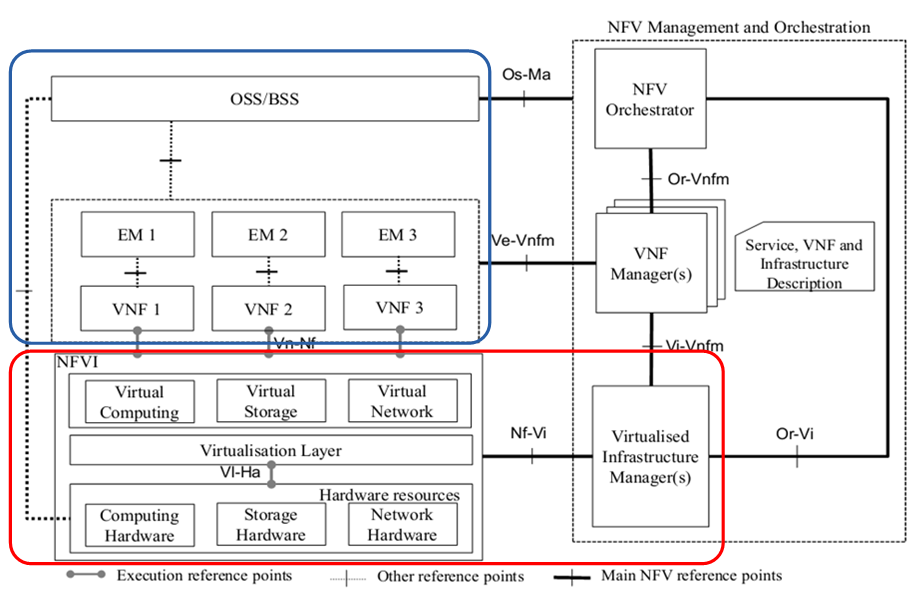
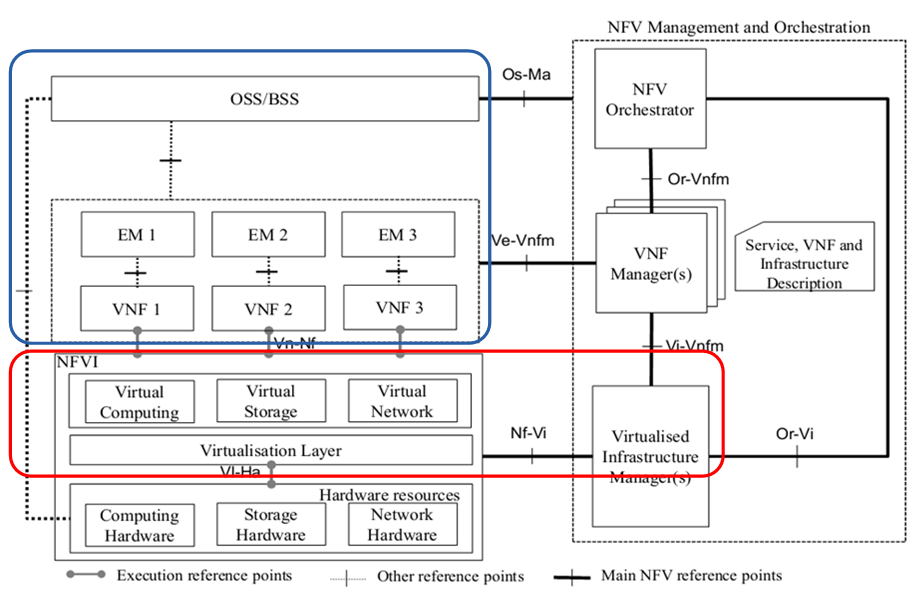
ESCALATOR-28: Revise the Section of Reference Architecture
JIRA: ESCALATOR-28

Changed region(s): [[0.0, 0.7414, 0.7887, 0.9489]]

diff --git a/docs/05-Reference_Architecture.rst b/docs/05-Reference_Architecture.rst
@@ -5,7 +5,7 @@ This section describes the reference architecture, the function blocks,
 and the function entities of Escalator for the reader to well understand how
 the basic functions to be organized.
 
-1. Upgrade Scope
+Upgrade Scope
 ~~~~~~~~~~~~~~~~
 Upgrade objects described in this document are software programs covered by
 red box in the picture below which includes: VIM and NFVI.
@@ -25,34 +25,37 @@ The software stack on each node is generally as shown in the table below.
    :name: figure2
    :width: 100%
 
-Because the control node upgrade will not affect the business in the blue box,
-this scheme focuses on upgrading of compute nodes.
+Because the control node upgrade will not affect the VNFs service in the blue
+box, this scheme focuses on upgrading of compute nodes.
 
-2. Precondition of Upgrade
+Precondition of Upgrade
 ~~~~~~~~~~~~~~~~~~~~~~~~~~
-2.1 The environmental requirements
-1.  System is running normally. If there are any faults before the upgrade, it
-is difficult to distinguish between upgrade introduced and the environment
+1 The environmental requirements
+^^^^^^^^^^^^^^^^^^^^^^^^^^^^^^^^
+- 1.  System is running normally. If there are any faults before the upgrade,
+it is difficult to distinguish between upgrade introduced and the environment
 itself.
-2.  The environment should have the redundant resources. Because the upgrade
+- 2.  The environment should have the redundant resources. Because the upgrade
 process is based on the business migration, in the absence of resource
 redundancy,it is impossible to realize the business migration, as well as to
 achieve a smooth upgrade.
 
 Resource redundancy in two levels:
-1)  NFVI level: This level is mainly the compute nodes resource redundancy.
+- 1  NFVI level: This level is mainly the compute nodes resource redundancy.
 During the upgrade, the virtual machine on business can be migrated to another
 free compute node.
-2)  VNF level: This level depends on backup mechanism in VNF, such as:
+- 2  VNF level: This level depends on HA mechanism in VNF, such as:
 active-standby, load balance. In this case, as long as business of the target
 node on VMs is migrated to other free nodes, the migration of VM might not be
 necessary.
 
 The way of redundancy to be used is subject to the specific environment.
-Generally speaking, the impact of using NFVI redundancy on the VMs is larger
-than the rearrangement of the business on VNF level.
+Generally speaking, During the upgrade, the VNF's service level availability
+mechanism should be used in higher priority than the NFVI's. This will help
+us to reduce the service outage.
 
-2.2 The demand for version
+2 The requirements for component release version
+^^^^^^^^^^^^^^^^^^^^^^^^^^^^^^^^^^^^^^^^^^^^^^^^
 This is primarily a compatibility requirement. You can refer to Linux/Python
 Compatible Semantic Versioning 3.0.0:
 
@@ -61,22 +64,28 @@ Given a version number MAJOR.MINOR.PATCH, increment the:
 2.  MINOR version when you add functionality in a backwards-compatible manner,
 3.  PATCH version when you make backwards-compatible bug fixes.
 
-The upgrade process needs to use some interfaces which require these
-interfaces to be backward compatible. Refer to "Interface" chapter for details.
+Some internal interfaces of OpenStack will be used by Escalator indirectly,
+such as VM migration related interface between VIM and NFVI. So it is required
+to be backward compatible on these interfaces. Refer to "Interface" chapter
+for details.
 
-3.Upgrade related modules in VIM
+Upgrade related modules in VIM
 ~~~~~~~~~~~~~~~~~~~~~~~~~~~~~~~~
 Upgrade operations are initiated by the user through the VIM. For VIM, upgrade
 management mainly contains the object:
-**Upgrade Manager**:Mainly responsible for upgrading process control. Physical
-nodes information of each node is saved in upgrade manager.
-**VIM Interface**:Mainly responsible for the external interface, include
+- **Upgrade Manager**:Mainly responsible for control of the upgrade process.
+The Escalator is required to know the software deployment information of the
+platform and will use these information during the upgrading. It will be
+collected from some place, such as the Installer, Deploy Manager and Escalator
+itself, etc.
+- **VIM Interface**:Mainly responsible for the external interface, include
 Vi-Vnfm, Or-Vi. This module stores VNFO and VNFM external information such as
 address and authentication.
-**Cloud Manager**:Mainly responsible for virtualization resources management,
+- **Cloud Manager**:Mainly responsible for virtualization resources management,
 which might be considered made up of Openstack and SDN control node.
-**System Support**:Provide the upper software running environment, including:
-OS, HA, etc. To upgrade the upper software is based on this module.
+- **System Support**:This layer is the runtime support environment of upper
+layers, e.g. Cloud Manager and VIM interface., including:OS, HA, etc. To
+upgrade the upper software is based on this module.
 
 .. figure:: images/figure3.png
    :name: figure3
